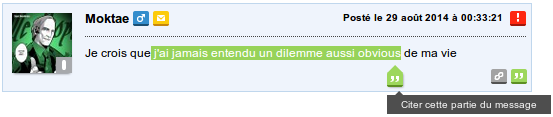
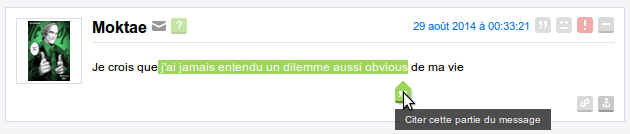
Actualise les différentes illustrations de SpawnKill

Changed region(s): [[0.0, 0.0256, 1.0, 0.9744], [0.0, 0.0769, 0.953, 0.641]]

diff --git a/index.php b/index.php
@@ -37,17 +37,18 @@
 					comme l'affichage des topics de l'auteur ou la copie du lien permanent du post.
 				</p>
 				<br />
-				<div data-toggle="tooltip" class="feature-img" title="Exemple d'avatar" >
-					<img src="img/avatar.png" />
+				<div data-toggle="tooltip" class="feature-img" title="Infos et actions" >
+					<img src="img/infos.png" />
 				</div>
+				<br />
 				<br />
 				<br />
 				<p>
 					Ce module permet aussi d'afficher le profil d'un auteur dans une fenêtre modale.
 				</p>
 				<br />
-				<div data-toggle="tooltip" class="feature-img" title="Exemple d'avatar" >
-					<img src="img/avatar.png" />
+				<div data-toggle="tooltip" class="feature-img" title="Profil dans une modale" >
+					<img src="img/cdv.png" />
 				</div>
 			</div>
 		</div>
